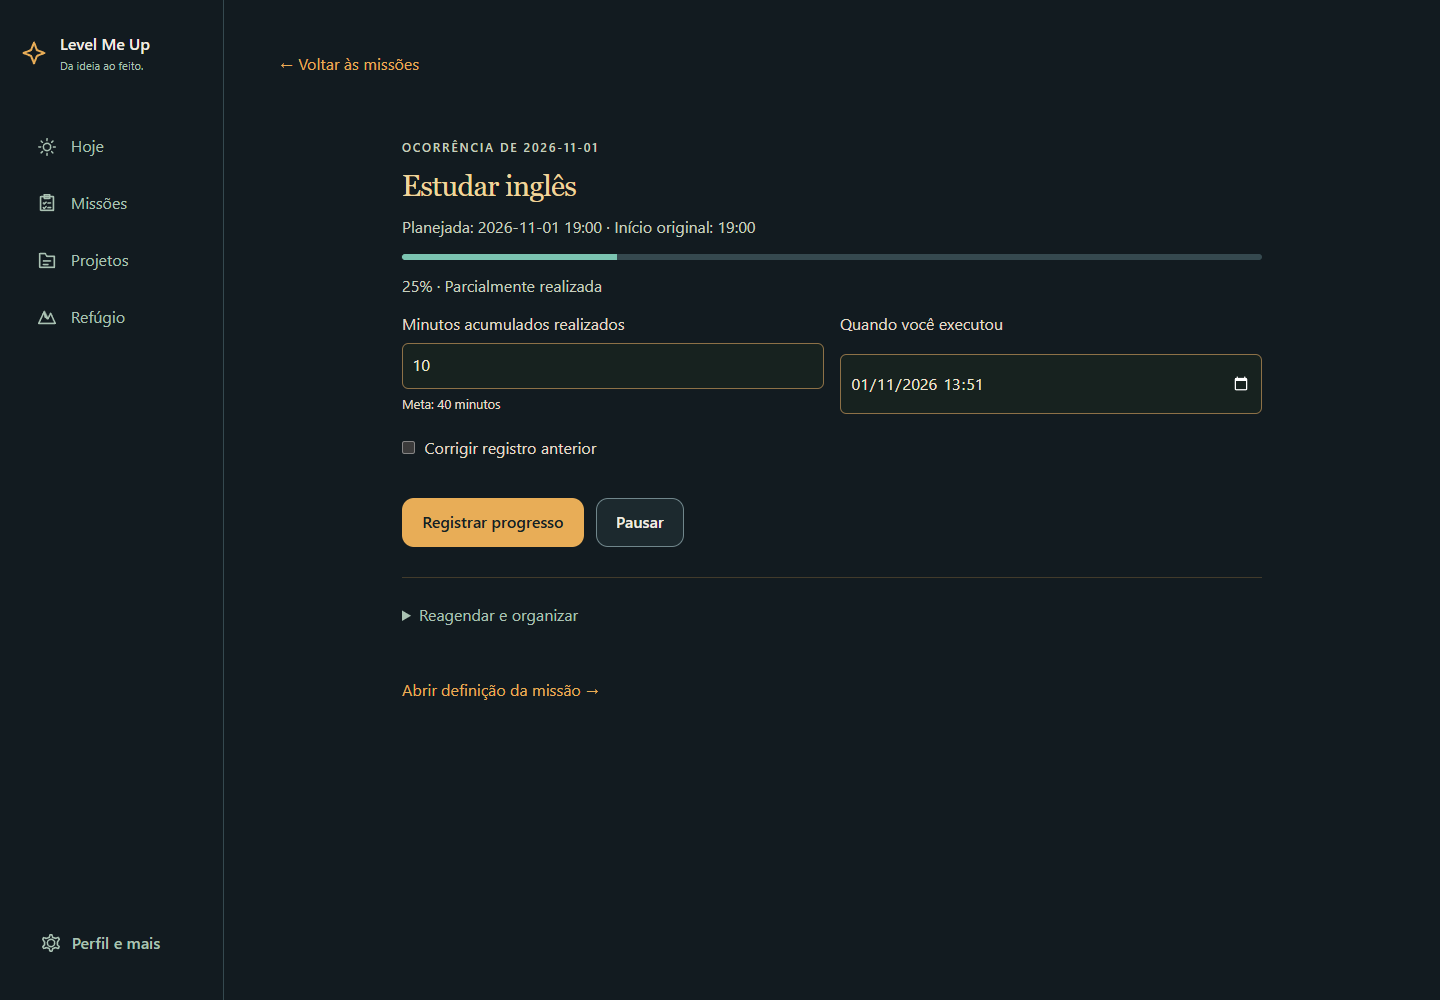
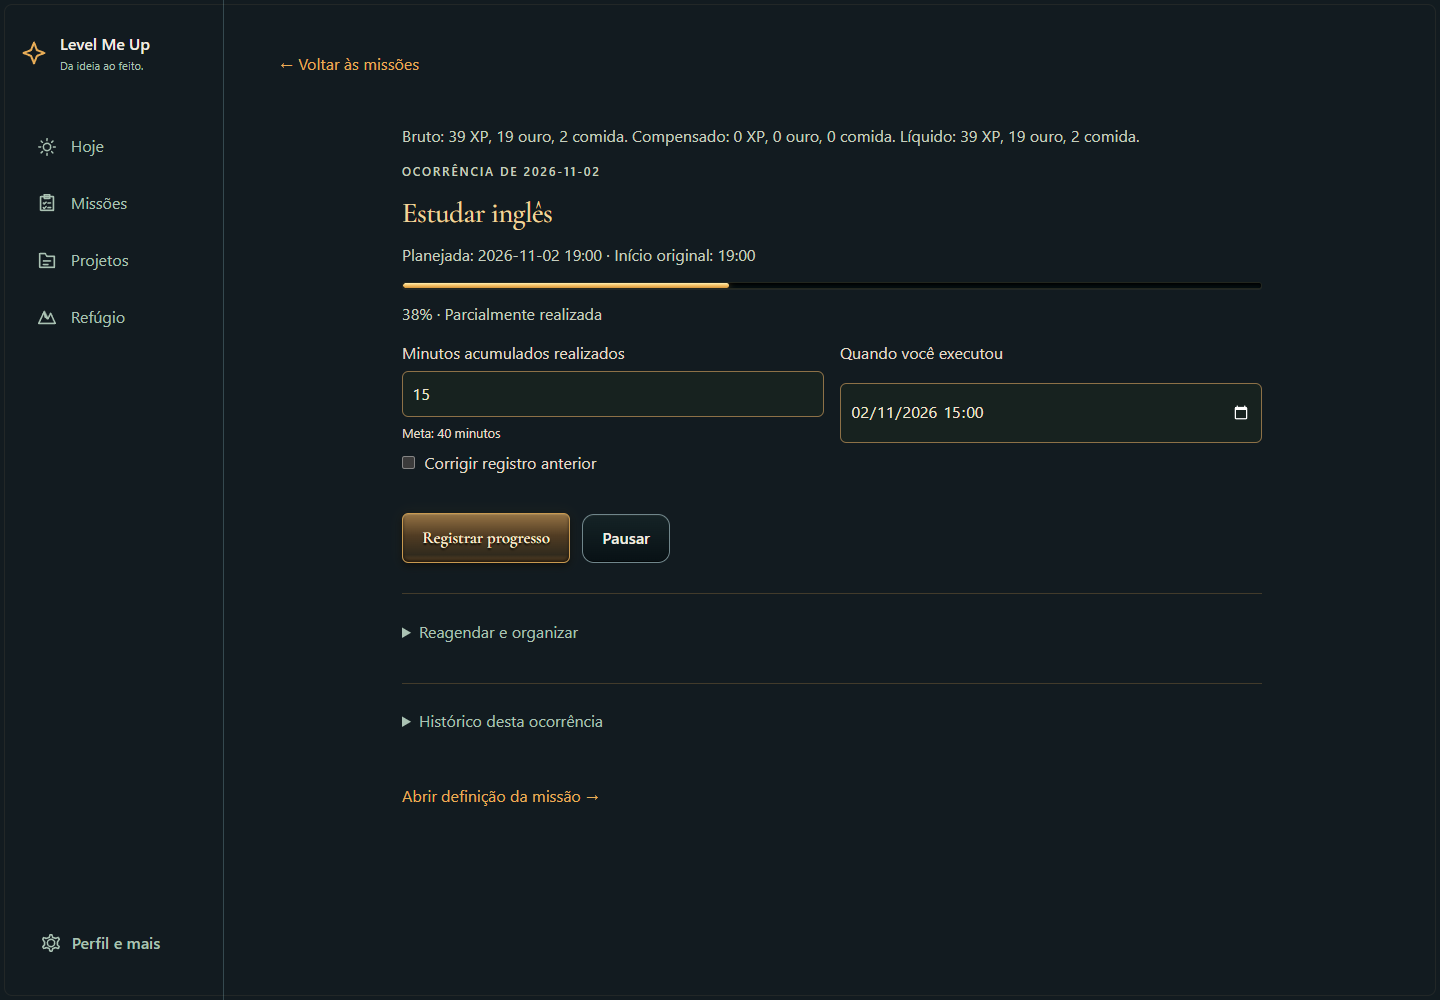
feat(productivity): finish daily guidance and legacy reconstruction safeguards

diff --git a/src/lib/journey/TodayPlanning.svelte b/src/lib/journey/TodayPlanning.svelte
@@ -8,11 +8,20 @@
   } from '$services/occurrenceService';
   import { dateKey } from '$services/rewardService';
   import type { Occurrence } from '$services/productivityTypes';
-  import { occurrenceSituation } from '$services/productivityInsights';
+  import {
+    occurrenceSituation,
+    recommendations,
+  } from '$services/productivityInsights';
   import Button from '$lib/ui/Button.svelte';
   let rows = $state<Occurrence[]>([]),
     error = $state(''),
     today = $state(dateKey());
+  let dismissed = $state<string[]>([]);
+  const suggestion = $derived(
+    recommendations(rows.filter((row) => row.plannedTime || row.deadline)).find(
+      (row) => !dismissed.includes(row.id),
+    ),
+  );
   onMount(() => {
     const timer = setInterval(() => (today = dateKey()), 30000);
     return () => clearInterval(timer);
@@ -60,6 +69,15 @@
           ><Button onclick={() => open(row)}>Executar</Button>
         </li>{/each}
     </ol>
+    {#if suggestion}<p class="lmu-hint">
+        Sugestão: <strong>{suggestion.title}</strong>. {suggestion.reason}
+        <Button
+          variant="quiet"
+          onclick={() =>
+            suggestion && (dismissed = [...dismissed, suggestion.id])}
+          >Dispensar sugestão</Button
+        >
+      </p>{/if}
   </section>{/if}
 
 <style>

diff --git a/src/services/productivity.test.ts b/src/services/productivity.test.ts
@@ -40,6 +40,22 @@ beforeEach(async () => {
   await initializeJourney();
 });
 afterEach(() => vi.useRealTimers());
+it('não reconstrói com nova recompensa uma conclusão recorrente legada conhecida sem recibo', async () => {
+  const id = await db.tasks.add({
+    title: 'Atividade antiga',
+    xp: 50,
+    rarity: 'common',
+    createdAt: '2020-01-01',
+    completed: true,
+    recurrence: { kind: 'daily', startDate: '2020-01-01' },
+    lastOccurrenceDate: '2026-11-01',
+  });
+  await expect(ensureOccurrence(id, '2026-11-01', true)).rejects.toThrow(
+    'conclusão legada',
+  );
+  expect(await db.occurrences.count()).toBe(0);
+  expect(await db.activityEvents.count()).toBe(0);
+});
 it('recusa confirmação com impacto econômico desatualizado sem alterar o débito', async () => {
   const row = await mission();
   await progress(row.id, 40);

diff --git a/src/services/occurrenceService.ts b/src/services/occurrenceService.ts
@@ -236,14 +236,17 @@ export async function ensureOccurrence(
       await db.activityEvents.where('taskId').equals(taskId).toArray()
     ).some(
       (event) =>
-        event.kind === 'task' &&
+        ['task', 'review'].includes(event.kind) &&
         !event.reversedAt &&
         !event.occurrenceId &&
         (!task.recurrence || (event.occurrenceDate ?? event.date) === origin),
     );
     if (
       legacyReward ||
-      (!task.recurrence && task.completed && !task.completionEventId)
+      (!task.recurrence && task.completed && !task.completionEventId) ||
+      (!!task.recurrence &&
+        task.lastOccurrenceDate === origin &&
+        !task.completionEventId)
     )
       throw new Error(
         'Esta atividade já possui conclusão legada. O registro anterior foi preservado sem nova recompensa.',

diff --git a/src/services/productivityInsights.ts b/src/services/productivityInsights.ts
@@ -75,7 +75,9 @@ export function recommendations(rows: Occurrence[], now = new Date()) {
               ? 'É uma missão de alta importância.'
               : row.value > 0
                 ? 'Você já avançou; retomar evita perder o fio.'
-                : 'Cabe em um pequeno intervalo do dia.';
+                : row.estimatedMinutes && row.estimatedMinutes <= 20
+                  ? 'Cabe em um pequeno intervalo do dia.'
+                  : 'Está prevista para hoje; você pode escolher começar por ela.';
       return { id: row.id, title: row.title, reason, score };
     })
     .sort((a, b) => b.score - a.score || a.id.localeCompare(b.id))

diff --git a/docs/MISSOES-PRODUTIVIDADE.md b/docs/MISSOES-PRODUTIVIDADE.md
@@ -43,10 +43,36 @@ Antes de publicar 6 em uma instalação existente, atualizar o controlador a par
 
 Após a publicação, a atualização do aplicativo mantém o fluxo existente de confirmação entre abas e proteção de rascunhos. Não forçar recarga nem abrir o banco pessoal em testes. Depois de migrar para 6, voltar a um pacote 5 não é um rollback compatível; usar uma correção compatível com 6 e preservar os backups.
 
+## Verificação manual
+
+1. Em **Missões → Nova missão**, informar somente o título para o fluxo simples. Para o fluxo avançado, abrir **Horário, prioridade e acompanhamento**, definir início, duração, importância e meta de tempo.
+2. Em **Agenda**, alternar dia/semana, executar 15 de 40 minutos, conferir a prévia e confirmar. Recarregar: o progresso deve permanecer em 38%. Concluir e experimentar uma correção explícita; conferir o débito em **Progresso** e sua compensação no próximo ganho.
+3. Em **Rotinas**, escolher missões, dias, horários e ordem. Iniciar uma sessão, executar fora da ordem, pausar e retomar no dia seguinte. A origem e o progresso das ocorrências permanecem.
+4. Em **Recuperar ocorrências**, consultar um dia anterior. Reagendar sua ocorrência para um dia que já tenha outra execução da mesma missão: ambas devem continuar independentes. Registrar a data real; recuperação tardia não reescreve pontualidade.
+5. Em **Progresso** e **Conquistas**, conferir cumprimento parcial/integral, tempo efetivo, tendências, consistência e reconhecimentos persistentes. Exportar um backup formato 4 e conferir os novos registros em ambiente descartável; nunca usar o banco pessoal como teste.
+
+Antes, conclusão e recompensa eram majoritariamente integrais e a sessão dependia do dia e do armazenamento local. Agora o progresso e o orçamento pertencem à ocorrência, com registros proporcionais e sessões duráveis. Correções deixam de retirar imediatamente recursos já conquistados: registram débitos auditáveis para compensação futura.
+
 ## Execução e medições
 
 Base: `main` em `fb019d72e797a4a23c2e0dc2eab0ed0a8063d974`. Checkout isolado em `missoes-produtividade`, branch `feat/missions-productivity`; trabalho local do acampamento preservado.
 
 Branch criada em 01/11/2026 às 13h34min24s, conforme reflog. Primeira prévia funcional verificada às 13h51min02s: **16min38s desde a criação da branch**, excluindo a investigação e a preparação anteriores. Fluxo: criação avançada → agenda → progresso parcial → recarga → conclusão → correção com débito. Navegador descartável, dados sintéticos, zero erros de página.
 
-Prévia de desenvolvimento em `http://127.0.0.1:5193`, separada da instalação pessoal. A prévia não representa publicação, CI aprovada ou pacote concluído. Validação consolidada e integração permanecem pendentes durante a implementação.
+Prévia de desenvolvimento em `http://127.0.0.1:5193`, separada da instalação pessoal. As capturas nesta pasta documentam a prévia final com dados sintéticos.
+
+Validações locais executadas em Node 24 e Chrome, antes do PR:
+
+| Verificação                                               | Resultado                                                                                  |
+| --------------------------------------------------------- | ------------------------------------------------------------------------------------------ |
+| Lint e tipos/Svelte                                       | Aprovados; zero erros ou avisos Svelte                                                     |
+| Testes unitários                                          | 225 aprovados em 19 arquivos                                                               |
+| Navegador desktop/mobile                                  | 216 aprovados                                                                              |
+| PWA desktop/mobile                                        | 32 aprovados                                                                               |
+| Estabilidade entre abas, cinco repetições por dispositivo | 10 aprovadas, sem retries                                                                  |
+| Publicação e sincronização                                | 22 aprovados                                                                               |
+| Integridade do pacote                                     | 5 verificações aprovadas                                                                   |
+| Build                                                     | Aprovado; precache essencial abaixo de 3 MiB                                               |
+| Auditoria obrigatória                                     | Aprovada no limite `moderate`; cinco avisos de baixa gravidade nas dependências existentes |
+
+Incluídos: upgrade real v5 → v6 no navegador, recuperação preservada após reabertura, rollback transacional de falha sintética de migração, restauração de backup, execução fracionada, concorrência, correções, gastos preservados e compensação de débitos. O banco pessoal não foi aberto nem alterado nos testes. A CI deve validar o commit final em Node 22/24 antes da integração; não confundir os resultados locais com aprovação remota ou atualização da instalação pessoal.

diff --git a/README.md b/README.md
@@ -12,6 +12,8 @@ A conclusão de missões usa a [Recompensa Viva 0.1](docs/RECOMPENSA-VIVA-0.1.md
 
 O organizador de [Missões e Organização Pessoal 1.0](docs/MISSOES-ORGANIZACAO-PESSOAL-1.0.md) reúne áreas personalizadas, planejamento por data, rotinas diárias e semanais e histórico por ocorrência, integrado à Recompensa Viva e disponível offline.
 
+A [evolução de missões e produtividade](docs/MISSOES-PRODUTIVIDADE.md) acrescenta agenda diária/semanal, rotinas com horários, progresso proporcional, recuperação de ocorrências e sessões salvas. Correções geram débitos compensados com ganhos futuros, preservando níveis, investimentos e prêmios de estágio já alcançados.
+
 O app instalado pelo Chrome recebe versões pela [sincronização isolada com o GitHub](docs/SINCRONIZACAO-GITHUB.md). O desenvolvimento ocorre em branches próprias e as alterações aprovadas entram por Pull Request na `main`. Uma tarefa local acompanha a `main`, valida e publica sem alterar a pasta de desenvolvimento. A origem e os dados locais são preservados.
 
 ## Requisitos e instalação
@@ -102,7 +104,7 @@ JavaScript é necessário para acessar o progresso local. `npm run preview` é p
 
 ## Dados e segurança
 
-O banco atual se chama `LevelMeUpDB`, versão 5. A migração preserva os dados v4 e guarda uma cópia local de recuperação. Conclusões novas registram recompensas efetivas; conclusões anteriores sem evento não permitem estorno exato. Importações são validadas antes da substituição e guardam o estado anterior. Reiniciar limpa toda a jornada e preserva somente nome e avatar. Configurações permite exportar a recuperação mais recente.
+O banco atual se chama `LevelMeUpDB`, versão 6. Migrações aditivas preservam os dados v4/v5 e guardam cópias locais de recuperação. O backup formato 4 inclui ocorrências, planejamento, execuções e auditoria; formatos anteriores continuam aceitos. Conclusões anteriores sem evento não permitem correção econômica exata. Importações são validadas antes da substituição e guardam o estado anterior. Reiniciar limpa toda a jornada e preserva somente nome e avatar. Configurações permite exportar a recuperação mais recente. Depois de abrir v6, não voltar a um aplicativo que conheça somente v5; consultar os cuidados de publicação na documentação de produtividade.
 
 As cinco recuperações recentes e a cópia da migração ficam no próprio navegador. Apagar dados do site remove essas cópias; exporte um backup externo. Exportações podem conter nomes, notas e histórico pessoal; mantenha seus backups em local confiável.
 
